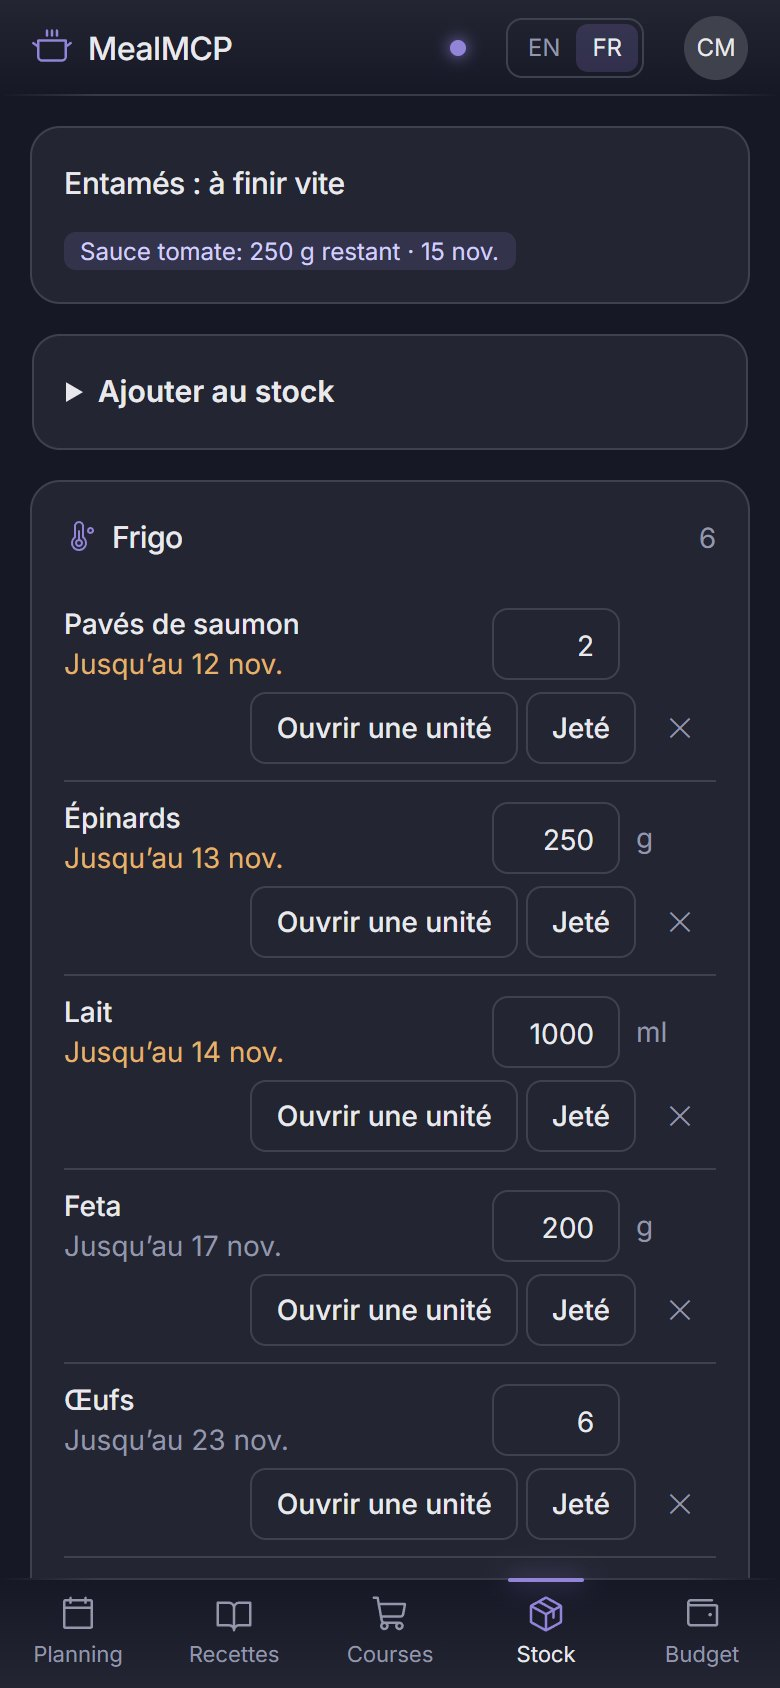
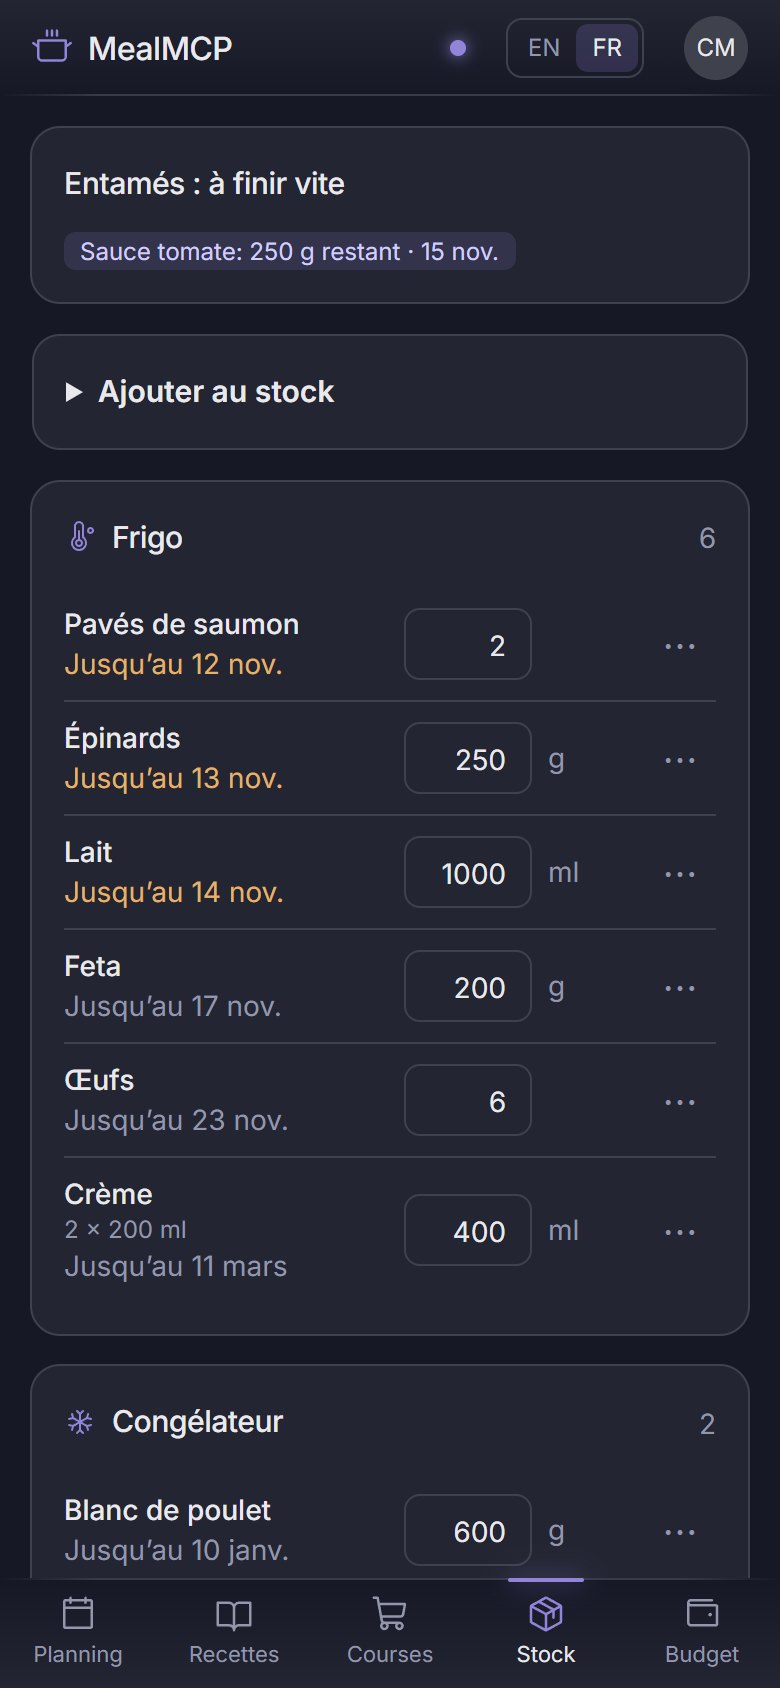
Mobile: stock rows with a more menu, folded shopping options and add form, compact planning header and free-text meals

diff --git a/web/src/pages/Planning.tsx b/web/src/pages/Planning.tsx
@@ -43,28 +43,32 @@ export function Planning() {
         <Button className="w-9 px-0" aria-label={t('plan.nextWeek')} onClick={() => setStart(addDays(start, 7))}>
           <CaretRight size={16} />
         </Button>
-        <Button variant="ghost" onClick={() => setStart(weekStart(today()))}>
-          {t('plan.thisWeek')}
-        </Button>
-        <h2 className="ml-1 text-xl">
+        {start !== weekStart(today()) && (
+          <Button variant="ghost" onClick={() => setStart(weekStart(today()))}>
+            {t('plan.thisWeek')}
+          </Button>
+        )}
+        <h2 className="ml-1 min-w-0 flex-1 truncate text-lg lg:flex-none lg:text-xl">
           {formatDate(start)} – {formatDate(end)}
         </h2>
-        <span className="flex-1" />
+        <span className="hidden flex-1 lg:block" />
+        {/* Phones: the navigation sits on the first line, the week's cost and the main action on the second. */}
+        <span className="order-1 h-0 basis-full lg:hidden" />
         {cost && cost.totalCents > 0 && (
-          <div className="mr-2 text-right">
+          <div className="order-1 min-w-0 flex-1 lg:order-none lg:mr-2 lg:flex-none lg:text-right">
             <div className="text-[11px] tracking-wider text-muted uppercase">{t('plan.weekEstimate')}</div>
             <div className="text-base tabular-nums">
               {formatMoney(cost.totalCents, currency)}
-              {cost.incompleteMeals > 0 && <span className="text-xs text-muted"> · {t('plan.cost.incomplete', { n: cost.incompleteMeals })}</span>}
+              {cost.incompleteMeals > 0 && <span className="hidden text-xs text-muted sm:inline"> · {t('plan.cost.incomplete', { n: cost.incompleteMeals })}</span>}
             </div>
           </div>
         )}
-        {generated && <span className="text-sm text-accent">{t('plan.listUpdated')}</span>}
-        <Button onClick={() => setComposer(composer ? null : { date: days.includes(today()) ? today() : start, mealType: 'dinner' })}>
+        {generated && <span className="order-1 text-sm text-accent lg:order-none">{t('plan.listUpdated')}</span>}
+        <Button aria-label={t('plan.add.title')} className="w-9 px-0 sm:w-auto sm:px-3" onClick={() => setComposer(composer ? null : { date: days.includes(today()) ? today() : start, mealType: 'dinner' })}>
           <Plus size={16} />
-          {t('plan.add.title')}
+          <span className="hidden sm:inline">{t('plan.add.title')}</span>
         </Button>
-        <Button variant="primary" disabled={pending} onClick={generate}>
+        <Button variant="primary" className="order-1 lg:order-none" disabled={pending} onClick={generate}>
           <ShoppingCart size={16} />
           {t('plan.generate')}
         </Button>
@@ -238,6 +242,43 @@ function MealCard({ meal, insight }: { meal: PlannedMeal; insight?: MealInsight 
   const missing = insight ? insight.missing.length : 0;
   const missingEquipment = insight?.missingEquipment ?? [];
 
+  const actions = (
+    <div className="ml-auto flex items-center gap-1 text-muted">
+      {!meal.cooked && (
+        <button
+          className="inline-flex size-9 sm:size-6 cursor-pointer items-center justify-center rounded hover:bg-ink/10 hover:text-accent-soft disabled:opacity-45"
+          disabled={pending}
+          title={t('plan.cookTitle')}
+          aria-label={t('plan.cookTitle')}
+          onClick={() => run(() => api.post(`/plan/${meal.id}/cook`))}
+        >
+          <ChefHat size={14} />
+        </button>
+      )}
+      <button
+        className="inline-flex size-9 sm:size-6 cursor-pointer items-center justify-center rounded hover:bg-ink/10 hover:text-danger"
+        title={t('plan.remove')}
+        aria-label={t('plan.remove')}
+        onClick={() => run(() => api.del(`/plan/${meal.id}`))}
+      >
+        <X size={14} />
+      </button>
+    </div>
+  );
+
+  // A free-text meal ("Leftovers", "Restaurant") has no recipe, cost or stock status: one line is enough.
+  if (!meal.recipeId)
+    return (
+      <div className="flex items-center gap-2 text-sm">
+        <span className={`min-w-0 flex-1 truncate text-[13px] font-medium ${meal.cooked ? 'text-muted line-through' : ''}`}>{meal.title}</span>
+        <span className="inline-flex items-center gap-1 text-[11px] text-muted tabular-nums">
+          <Users size={12} />
+          {meal.servings}
+        </span>
+        {actions}
+      </div>
+    );
+
   return (
     <div className="flex h-full flex-col gap-1 text-sm">
       <div className={`text-[13px] leading-tight font-medium text-pretty ${meal.cooked ? 'text-muted line-through' : ''}`}>
@@ -284,27 +325,7 @@ function MealCard({ meal, insight }: { meal: PlannedMeal; insight?: MealInsight 
         </span>
         {insight?.costCents ? <span>{formatMoney(insight.costCents, currency)}</span> : null}
       </div>
-      <div className="ml-auto flex items-center gap-1 text-muted">
-        {!meal.cooked && (
-          <button
-            className="inline-flex size-9 sm:size-6 cursor-pointer items-center justify-center rounded hover:bg-ink/10 hover:text-accent-soft disabled:opacity-45"
-            disabled={pending}
-            title={t('plan.cookTitle')}
-            aria-label={t('plan.cookTitle')}
-            onClick={() => run(() => api.post(`/plan/${meal.id}/cook`))}
-          >
-            <ChefHat size={14} />
-          </button>
-        )}
-        <button
-          className="inline-flex size-9 sm:size-6 cursor-pointer items-center justify-center rounded hover:bg-ink/10 hover:text-danger"
-          title={t('plan.remove')}
-          aria-label={t('plan.remove')}
-          onClick={() => run(() => api.del(`/plan/${meal.id}`))}
-        >
-          <X size={14} />
-        </button>
-      </div>
+      {actions}
       </div>
     </div>
   );

diff --git a/web/src/pages/Shopping.tsx b/web/src/pages/Shopping.tsx
@@ -5,7 +5,7 @@ import { api, useAction } from '../api';
 import { addDays, currencySymbol, formatDay, formatMoney, formatQty, MEALS, today } from '../format';
 import { type MessageKey, useI18n, useT } from '../i18n';
 import type { BudgetStatus, HouseholdSettings, ShoppingItem } from '../types';
-import { Badge, Button, Card, Empty, Input, Select } from '../ui';
+import { Badge, Button, Card, Empty, Input, Select, Disclose } from '../ui';
 import { LocationSelect, parseQty, ProductDatalist, useCurrency } from './shared';
 
 const AISLES = ['produce', 'dairy', 'meat_fish', 'bakery', 'pantry', 'frozen', 'drinks', 'household', 'other'];
@@ -80,40 +80,46 @@ export function Shopping() {
     <div className="grid gap-6 lg:grid-cols-[minmax(0,1fr)_18.5rem]">
       <ProductDatalist />
       <div className="min-w-0 space-y-4">
-        <div className="flex flex-wrap items-end gap-2">
+        <div className="flex items-end gap-2">
           <div className="mr-auto">
             <h2 className="text-xl">{t('shopping.list.title')}</h2>
             <p className="text-sm text-muted">{t('shopping.list.toBuy', { n: open.length })}</p>
           </div>
-          <span className="text-sm text-muted">{t('shopping.generate.from')}</span>
-          <Input type="date" aria-label={t('shopping.generate.fromAria')} value={range.from} onChange={(e) => setRange({ ...range, from: e.target.value })} />
-          <span className="text-sm text-muted">{t('shopping.generate.to')}</span>
-          <Input type="date" aria-label={t('shopping.generate.toAria')} value={range.to} onChange={(e) => setRange({ ...range, to: e.target.value })} />
           <Button variant="primary" disabled={pending} onClick={() => run(() => api.post('/shopping/generate', range))}>
             <ArrowsClockwise size={16} />
             {t('shopping.generate.button')}
           </Button>
         </div>
-        <p className="max-w-2xl text-xs text-muted">{t('shopping.generate.help')}</p>
 
-        <div className="flex items-center gap-2 text-sm" role="group" aria-label={t('shopping.group')}>
-          <span className="text-muted">{t('shopping.group')}</span>
-          {(['none', 'aisle', 'meal'] as const).map((mode) => (
-            <Button key={mode} variant={groupBy === mode ? 'primary' : 'secondary'} className="h-8 px-3" aria-pressed={groupBy === mode} onClick={() => run(() => api.put('/settings', { shoppingGroupBy: mode }))}>
-              {t(`shopping.group.${mode}`)}
+        <Disclose summary={t('shopping.options')}>
+          <div className="flex flex-wrap items-center gap-2">
+            <span className="text-sm text-muted">{t('shopping.generate.from')}</span>
+            <Input type="date" aria-label={t('shopping.generate.fromAria')} value={range.from} onChange={(e) => setRange({ ...range, from: e.target.value })} />
+            <span className="text-sm text-muted">{t('shopping.generate.to')}</span>
+            <Input type="date" aria-label={t('shopping.generate.toAria')} value={range.to} onChange={(e) => setRange({ ...range, to: e.target.value })} />
+          </div>
+          <p className="mt-2 max-w-2xl text-xs text-muted">{t('shopping.generate.help')}</p>
+          <div className="mt-3 flex flex-wrap items-center gap-2 text-sm" role="group" aria-label={t('shopping.group')}>
+            <span className="text-muted">{t('shopping.group')}</span>
+            {(['none', 'aisle', 'meal'] as const).map((mode) => (
+              <Button key={mode} variant={groupBy === mode ? 'primary' : 'secondary'} className="h-8 px-3" aria-pressed={groupBy === mode} onClick={() => run(() => api.put('/settings', { shoppingGroupBy: mode }))}>
+                {t(`shopping.group.${mode}`)}
+              </Button>
+            ))}
+          </div>
+        </Disclose>
+
+        <Disclose summary={t('shopping.addItem')}>
+          <form onSubmit={add} className="flex flex-wrap gap-2">
+            <Input required list="product-names" placeholder={t('shopping.list.item')} aria-label={t('shopping.list.item')} value={form.name} onChange={(e) => setForm({ ...form, name: e.target.value })} className="flex-1 basis-40" />
+            <Input inputMode="decimal" placeholder={t('common.qty')} aria-label={t('common.quantity')} value={form.quantity} onChange={(e) => setForm({ ...form, quantity: e.target.value })} className="w-20" />
+            <Input list="unit-names" placeholder={t('common.unit')} aria-label={t('common.unit')} value={form.unit} onChange={(e) => setForm({ ...form, unit: e.target.value })} className="w-24" />
+            <Button type="submit" disabled={pending}>
+              <Plus size={16} />
+              {t('common.add')}
             </Button>
-          ))}
-        </div>
-
-        <form onSubmit={add} className="flex flex-wrap gap-2">
-          <Input required list="product-names" placeholder={t('shopping.list.item')} aria-label={t('shopping.list.item')} value={form.name} onChange={(e) => setForm({ ...form, name: e.target.value })} className="flex-1 basis-40" />
-          <Input inputMode="decimal" placeholder={t('common.qty')} aria-label={t('common.quantity')} value={form.quantity} onChange={(e) => setForm({ ...form, quantity: e.target.value })} className="w-20" />
-          <Input list="unit-names" placeholder={t('common.unit')} aria-label={t('common.unit')} value={form.unit} onChange={(e) => setForm({ ...form, unit: e.target.value })} className="w-24" />
-          <Button type="submit" disabled={pending}>
-            <Plus size={16} />
-            {t('common.add')}
-          </Button>
-        </form>
+          </form>
+        </Disclose>
 
         {items.length === 0 ? (
           <Empty>{t('shopping.list.empty')}</Empty>

diff --git a/web/src/pages/Stock.tsx b/web/src/pages/Stock.tsx
@@ -140,9 +140,15 @@ function StockRow({ item }: { item: StockItem }) {
     void run(() => api.patch(`/stock/${item.id}`, { quantity }));
   };
 
+  const actions: { key: string; label: string; aria: string; run: () => void }[] = [];
+  if (item.opened && (item.packSize === null || item.quantity >= item.packSize - 1e-9)) actions.push({ key: 'unopen', label: t('stock.unopen'), aria: t('stock.unopenAria', { name: item.name }), run: () => void run(() => api.post('/stock/' + item.id + '/unopen', {})) });
+  if (!item.approximate && !item.opened) actions.push({ key: 'open', label: t('stock.open'), aria: t('stock.openAria', { name: item.name }), run: () => void run(() => api.post(`/stock/${item.id}/open`, {})) });
+  actions.push({ key: 'discard', label: t('stock.discard'), aria: t('stock.discardAria', { name: item.name }), run: () => void run(() => api.post(`/stock/${item.id}/discard`, { reason: days !== null && days < 0 ? 'expired' : 'spoiled' })) });
+  actions.push({ key: 'remove', label: t('stock.removeShort'), aria: t('stock.remove', { name: item.name }), run: () => void run(() => api.del(`/stock/${item.id}`)) });
+
   return (
-    <li className="flex flex-wrap items-center gap-x-2 gap-y-1 py-2 text-sm">
-      <div className="min-w-40 flex-1">
+    <li className="flex items-center gap-x-2 py-2 text-sm">
+      <div className="min-w-0 flex-1">
         <div className="font-medium wrap-break-word">{item.name}</div>
         {item.opened && item.openedOn && <div className="text-xs text-accent">{t('stock.openedBadge', { date: formatDate(item.openedOn) })}</div>}
         {item.packCount !== null && item.packSize !== null && (
@@ -172,25 +178,35 @@ function StockRow({ item }: { item: StockItem }) {
           <span className="w-10 text-muted">{item.unit === 'piece' ? '' : item.unit}</span>
         </>
       )}
-      {item.opened && (item.packSize === null || item.quantity >= item.packSize - 1e-9) && (
-        <Button variant="secondary" className="h-9 px-3 text-sm sm:h-8 sm:px-2 sm:text-xs" aria-label={t('stock.unopenAria', { name: item.name })} onClick={() => run(() => api.post('/stock/' + item.id + '/unopen', {}))}>
-          {t('stock.unopen')}
-        </Button>
-      )}
-      {/* On phones the secondary actions sit on their own line, right-aligned under the quantity. */}
-      <div className="flex w-full items-center justify-end gap-1 sm:ml-auto sm:w-auto">
-        {!item.approximate && !item.opened && (
-          <Button variant="secondary" className="h-9 px-3 text-sm sm:h-8 sm:px-2 sm:text-xs" aria-label={t('stock.openAria', { name: item.name })} onClick={() => run(() => api.post(`/stock/${item.id}/open`, {}))}>
-            {t('stock.open')}
+      {/* Phones: one "more" menu keeps the row to a single line. Wider screens show the actions as buttons. */}
+      <div className="hidden items-center justify-end gap-1 sm:ml-auto sm:flex">
+        {actions.map((a) => (
+          <Button key={a.key} variant={a.key === 'remove' ? 'ghost' : 'secondary'} className={a.key === 'remove' ? 'size-8 px-0' : 'h-8 px-2 text-xs'} aria-label={a.aria} onClick={a.run}>
+            {a.key === 'remove' ? '✕' : a.label}
           </Button>
-        )}
-        <Button variant="secondary" className="h-9 px-3 text-sm sm:h-8 sm:px-2 sm:text-xs" aria-label={t('stock.discardAria', { name: item.name })} onClick={() => run(() => api.post(`/stock/${item.id}/discard`, { reason: days !== null && days < 0 ? 'expired' : 'spoiled' }))}>
-          {t('stock.discard')}
-        </Button>
-        <Button variant="ghost" className="size-9 px-0 sm:size-8" aria-label={t('stock.remove', { name: item.name })} onClick={() => run(() => api.del(`/stock/${item.id}`))}>
-          ✕
-        </Button>
+        ))}
       </div>
+      <details className="relative sm:hidden">
+        <summary aria-label={t('common.more')} className="flex size-9 cursor-pointer list-none items-center justify-center rounded-lg text-xl leading-none text-muted active:bg-ink/10 [&::-webkit-details-marker]:hidden">
+          ⋯
+        </summary>
+        <div className="absolute right-0 z-20 mt-1 w-48 rounded-xl border border-line bg-surface p-1 shadow-lg">
+          {actions.map((a) => (
+            <button
+              key={a.key}
+              type="button"
+              aria-label={a.aria}
+              className={`flex h-11 w-full cursor-pointer items-center rounded-lg px-3 text-left text-sm active:bg-ink/10 ${a.key === 'remove' ? 'text-danger' : ''}`}
+              onClick={(e) => {
+                e.currentTarget.closest('details')?.removeAttribute('open');
+                a.run();
+              }}
+            >
+              {a.label}
+            </button>
+          ))}
+        </div>
+      </details>
     </li>
   );
 }

diff --git a/web/src/ui.tsx b/web/src/ui.tsx
@@ -63,6 +63,17 @@ export function Fold({ title, children }: { title: ReactNode; children: ReactNod
   );
 }
 
+/** Folded on phones to keep a page short, always open (and without its summary) from 1024px up. */
+export function Disclose({ summary, children, className = '' }: { summary: ReactNode; children: ReactNode; className?: string }) {
+  const wide = typeof window !== 'undefined' && window.matchMedia('(min-width: 1024px)').matches;
+  return (
+    <details open={wide} className={`group rounded-xl border border-line px-3 py-2.5 lg:border-0 lg:p-0 ${className}`}>
+      <summary className="cursor-pointer text-sm font-medium lg:hidden">{summary}</summary>
+      <div className="mt-3 lg:mt-0">{children}</div>
+    </details>
+  );
+}
+
 export function Badge({ tone = 'muted', children }: { tone?: 'muted' | 'warn' | 'danger' | 'accent'; children: ReactNode }) {
   const tones = {
     muted: 'bg-ink/5 text-muted',

diff --git a/web/src/i18n/fr.ts b/web/src/i18n/fr.ts
@@ -244,6 +244,8 @@ export const fr: Messages = {
   'stock.packSize': 'Taille d’une unité',
   'stock.alreadyOpened': 'Déjà ouvert',
   'stock.openedBadge': 'ouvert le {date}',
+  'stock.removeShort': 'Retirer',
+  'common.more': 'Plus',
   'stock.open': 'Ouvrir une unité',
   'stock.openAria': 'Ouvrir une unité de {name}',
   'stock.opened.title': 'Entamés : à finir vite',
@@ -326,6 +328,8 @@ export const fr: Messages = {
   'recipes.rate': 'Noter {n} sur 5',
   'recipes.sort.name': 'A–Z',
   'recipes.sort.rating': 'Mieux notées',
+  'shopping.options': 'Dates et regroupement',
+  'shopping.addItem': 'Ajouter un article',
   'shopping.group': 'Regrouper par',
   'shopping.group.none': 'Liste',
   'shopping.group.aisle': 'Rayon',

diff --git a/web/src/i18n/en.ts b/web/src/i18n/en.ts
@@ -247,6 +247,8 @@ export const en = {
   'stock.packSize': 'Pack size',
   'stock.alreadyOpened': 'Already opened',
   'stock.openedBadge': 'opened {date}',
+  'stock.removeShort': 'Remove',
+  'common.more': 'More',
   'stock.open': 'Open a pack',
   'stock.openAria': 'Open a pack of {name}',
   'stock.opened.title': 'Opened: use up soon',
@@ -329,6 +331,8 @@ export const en = {
   'recipes.rate': 'Rate {n} out of 5',
   'recipes.sort.name': 'A–Z',
   'recipes.sort.rating': 'Best rated',
+  'shopping.options': 'Dates and grouping',
+  'shopping.addItem': 'Add an item',
   'shopping.group': 'Group by',
   'shopping.group.none': 'List',
   'shopping.group.aisle': 'Aisle',
